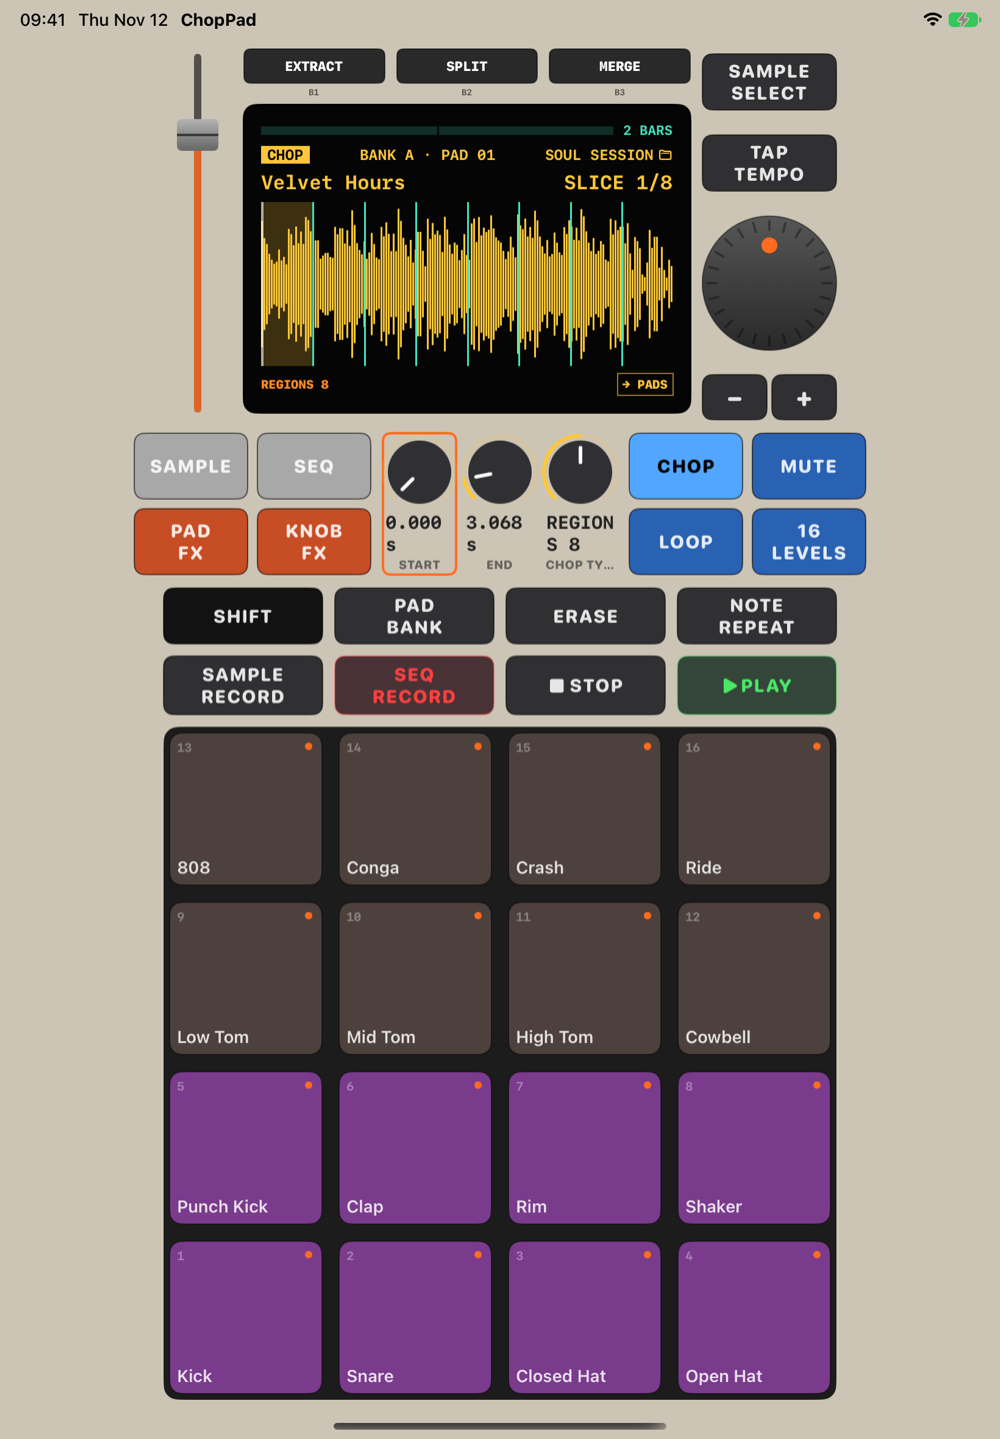
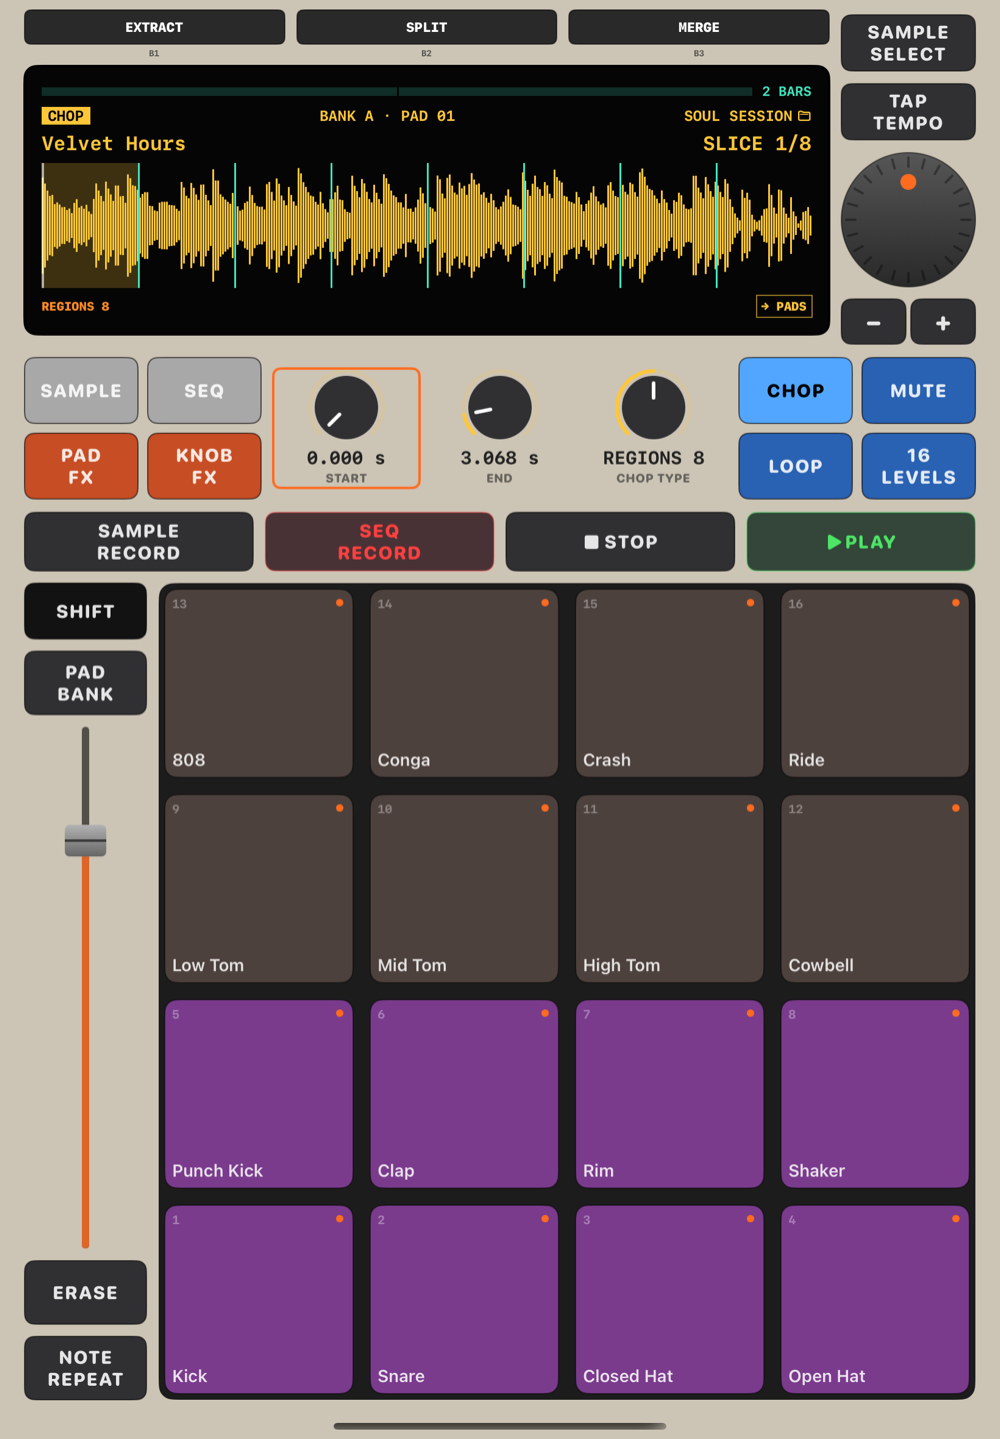
iPad layout: manual and screenshots

diff --git a/MANUAL.md b/MANUAL.md
@@ -15,7 +15,7 @@ For version 0.36.0. ChopPad is laid out like a hardware pad sampler: one main sc
 
 **iPhone, landscape** (with the notch on the left): SHIFT, PAD BANK, the FADER, ERASE and NOTE REPEAT run down the left edge, the screen with everything around it is in the middle, and the pads fill the right side from top to bottom.
 
-**iPad**: the same panel, sized so the pads stay square and nothing stretches; in landscape the pads are on the right, in portrait at the bottom.
+**iPad**: the same keys, arranged to fill the bigger screen with square pads. Portrait: the screen, keys and knobs across the top, then SHIFT, PAD BANK, the FADER, ERASE and NOTE REPEAT down the left of the pads. Landscape: the pads fill the right side top to bottom; on the left the screen with the FADER beside it, then SAMPLE SELECT, TAP TEMPO, the wheel and − / +, the MODE keys, knobs and PAD PLAY keys, the SHIFT row and the transport row. The status bar is hidden on iPad.
 
 Keys react as soon as you touch them, like real buttons, and you can hold several keys and pads at once. Messages about what just happened (for example "COPIED A1 → A2") appear for a moment in the middle of the screen.
 

diff --git a/README.md b/README.md
@@ -22,7 +22,7 @@ A pad sampler for iPhone and iPad (iOS 17 or later). Pick a song from your music
     </td>
     <td colspan="3" align="center">
       <img src="docs/ipad-landscape.png" height="200" alt="ChopPad on iPad in landscape, the same beat with bigger pads"><br>
-      <sub><b>iPad</b> · The same panel, square pads on the right</sub>
+      <sub><b>iPad</b> · Square pads from top to bottom</sub>
     </td>
   </tr>
   <tr>
